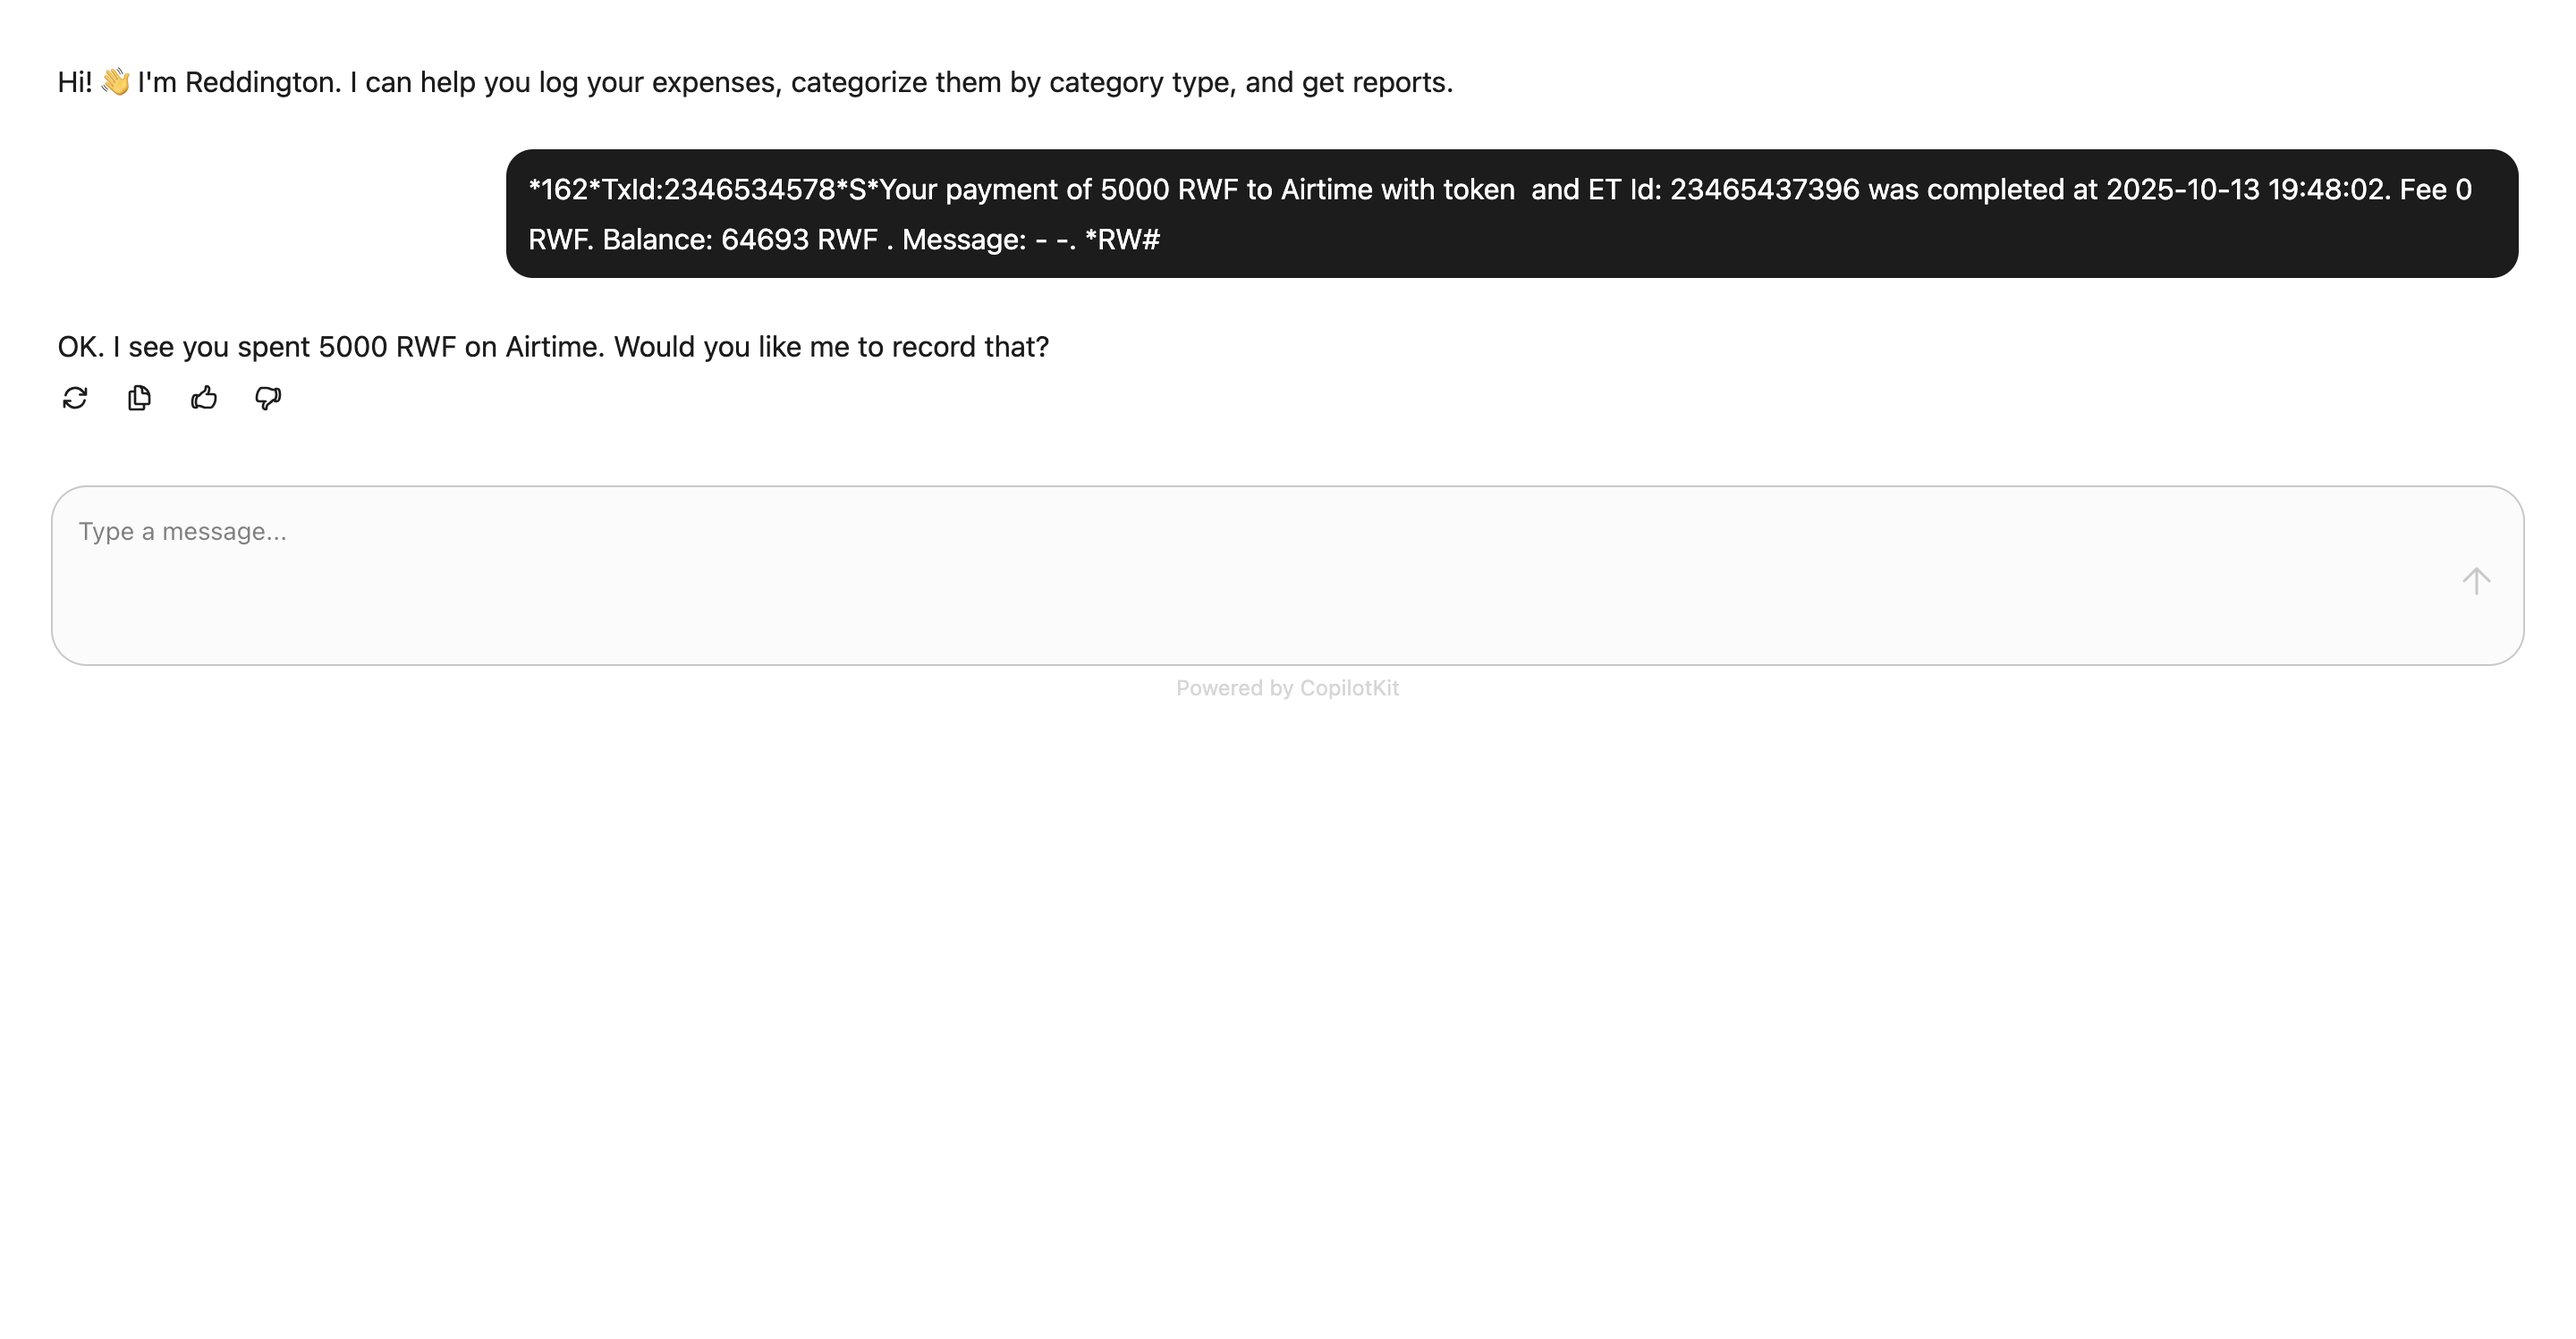
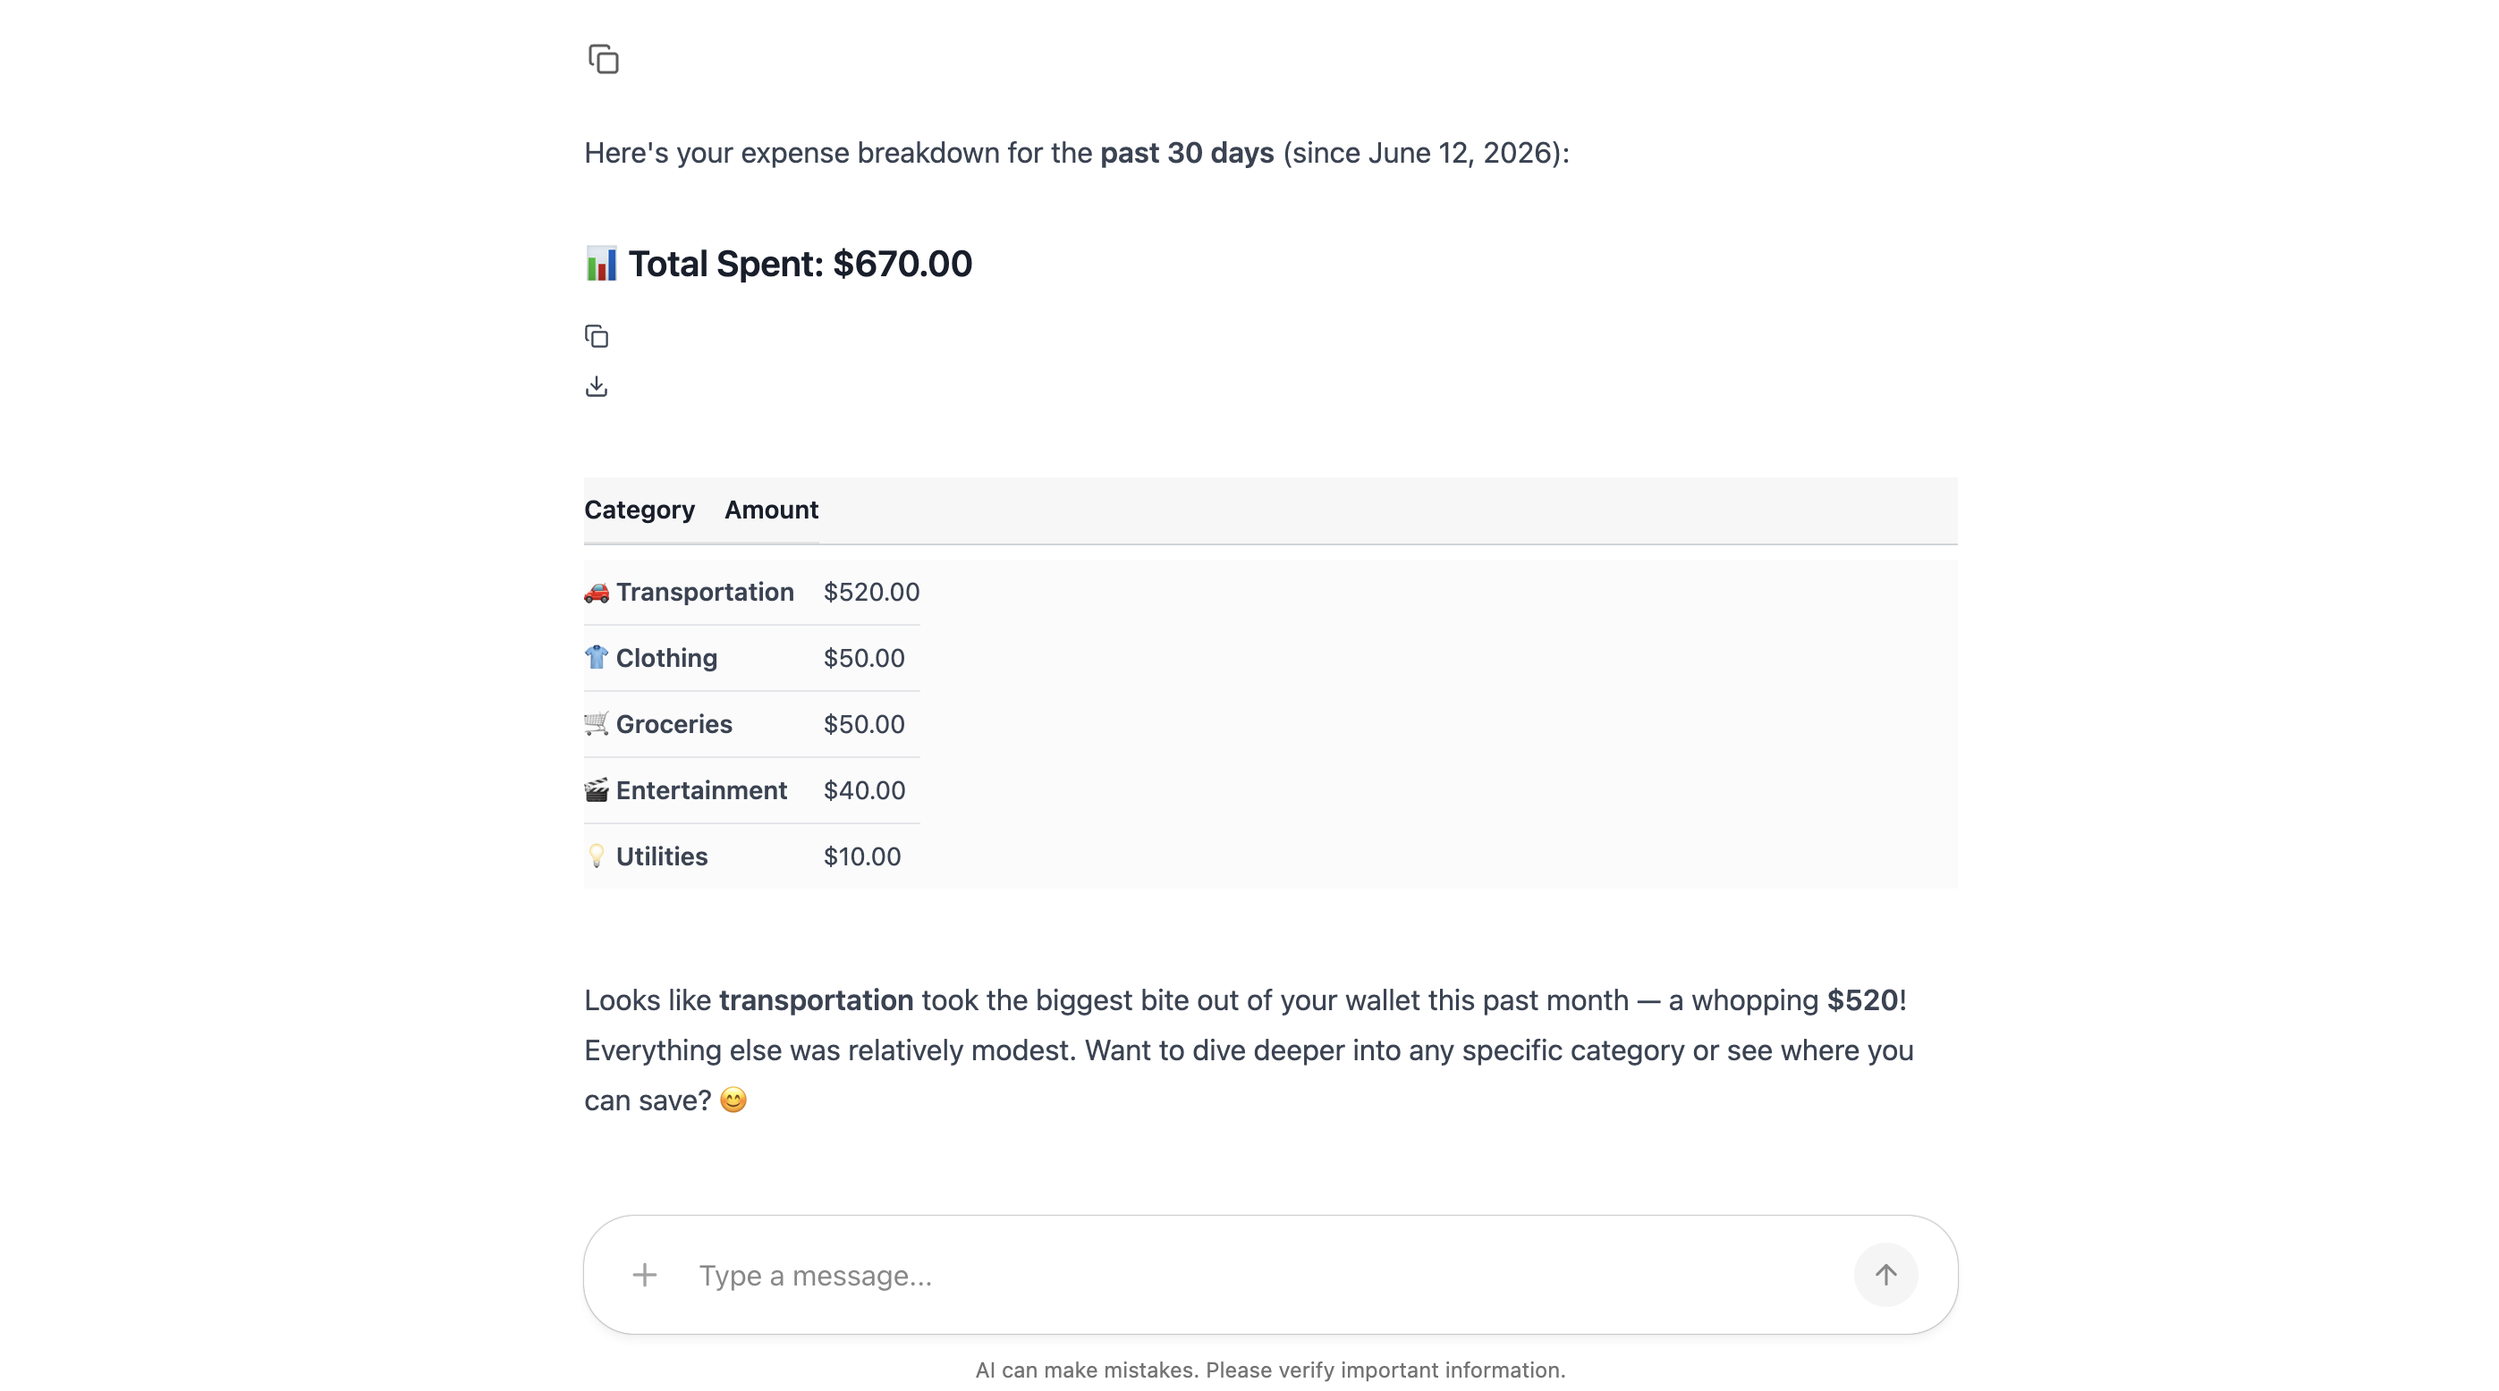
Changed theme and fonts

diff --git a/layouts/index.html b/layouts/index.html
@@ -2,7 +2,7 @@
 <head>
     <link rel="stylesheet" type='text/css' href="https://cdn.jsdelivr.net/gh/devicons/devicon@latest/devicon.min.css" />
 </head>
-<div class="w-full md:w-4/5 lg:w-3/5 mx-auto px-14 py-12">
+<div class="w-full md:w-4/5 lg:w-3/5 mx-auto px-4 md:px-14 py-12">
     <!-- Hero Section -->
     {{ $authorData := index site.Data .Language.Lang "author" }}
     {{ $author := cond (and $authorData $authorData.author) $authorData.author site.Params }}
@@ -11,12 +11,12 @@
     <section class="mb-16">
         <div class="max-w-3xl ml-0 p-4 pb-2 border border-border-primary-light dark:border-border-primary-dark rounded-lg bg-bg-secondary-light dark:bg-bg-secondary-dark shadow-lg relative">
             <div class="text-left">
-                <h1 class="text-4xl font-bold mb-2 text-text-primary-light dark:text-text-primary-dark">{{ .name }}</h1>
-                <p class="text-gray-400 mb-3 flex items-center text-xl">
+                <h1 class="text-2xl font-bold mb-2 text-text-primary-light dark:text-text-primary-dark">{{ .name }}</h1>
+                <p class="text-gray-400 mb-3 flex items-center text-base">
                     <svg xmlns="http://www.w3.org/2000/svg" class="text-gray-400" width="24" height="24" viewBox="-7 -2 24 24"><path fill="currentColor" d="M4 9.9A5.002 5.002 0 0 1 5 0a5 5 0 0 1 1 9.9V19a1 1 0 0 1-2 0V9.9zM5 8a3 3 0 1 0 0-6a3 3 0 0 0 0 6z"/></svg>
                     {{ .location }}
                 </p>
-                <p class="text-xl mb-6 text-text-primary-light dark:text-text-primary-dark">{{ .description | replaceRE "\n\n+" "<br><br>" | safeHTML }}</p>
+                <p class="mb-6 text-text-primary-light dark:text-text-primary-dark">{{ .description | replaceRE "\n\n+" "<br><br>" | safeHTML }}</p>
             </div>
             <!-- Social Icons - Moved to bottom for mobile -->
             <div class="mt-8 md:mt-0 flex flex-wrap justify-center gap-3 md:absolute md:top-4 md:right-4 md:flex-nowrap md:justify-end md:mt-0">
@@ -50,7 +50,7 @@
 
     <!-- tech stack here -->
     <section class="mb-20">
-        <h2 class="text-4xl font-bold mb-2 relative">{{ T "whatIWorkWith" }}</h2>
+        <h2 class="text-xl font-bold mb-2 relative">{{ T "whatIWorkWith" }}</h2>
         <div class="tech-carousel">
             <!-- Row 1 - Forward animation -->
             <div class="carousel-container">
@@ -133,11 +133,11 @@
     {{ with $projects }}
     <section class="mt-12 md:mt-20 mb-12 md:mb-20">
         <div class="flex justify-between items-center mb-6 md:mb-8">
-            <h2 class="text-2xl md:text-4xl font-bold">{{ T "projectsTitle" }}</h2>
+            <h2 class="text-xl md:text-2xl font-bold">{{ T "projectsTitle" }}</h2>
         </div>
         <div class="grid grid-cols-1 gap-6 md:gap-8 max-w-3xl mx-auto">
             {{ range first 2 . }}
-            <div class="project-card relative overflow-hidden rounded-lg bg-[#121212] border border-gray-700 transition-all duration-300 group">
+            <div class="project-card relative overflow-hidden rounded-lg bg-[#0d1117] border border-gray-700 transition-all duration-300 group">
                 <div class="aspect-w-16 aspect-h-9 overflow-hidden relative">
                     <div class="absolute inset-0 bg-gradient-to-br from-blue-500/20 to-purple-500/20 z-10"></div>
                     <img src="{{ .image }}" alt="{{ .title }}" class="w-full h-full object-cover transition-transform duration-500 group-hover:scale-110">
@@ -178,7 +178,7 @@
     {{ with $blogs }}
     <section class="mt-20 mb-20">
         <div class="flex justify-between items-center mb-8">
-            <h2 class="text-4xl font-bold">{{ T "blogsTitle" }}</h2>
+            <h2 class="text-xl font-bold">{{ T "blogsTitle" }}</h2>
         </div>
         <div class="space-y-8 max-w-3xl mx-auto">
             {{ range first 3 . }}

diff --git a/layouts/_default/baseof.html b/layouts/_default/baseof.html
@@ -18,14 +18,14 @@
                 color: #1f2937; 
             }
             html.dark, html.dark body {
-                background-color: #121212; 
-                color: #f3f4f6; 
+                background-color: #0d1117; 
+                color: #e6edf3; 
             }
             .border { 
                 border-color: #d4d4d8; 
             }
             html.dark .border {
-                border-color: #374151; 
+                border-color: #30363d; 
             }
             .carousel-item {
                 display: inline-block;
@@ -65,23 +65,23 @@
                         colors: {
                             text: {
                                 'primary-light': '#111827',
-                                'primary-dark': '#f3f4f6',
+                                'primary-dark': '#e6edf3',
                                 'secondary-light': '#4b5563',
-                                'secondary-dark': '#9ca3af',
+                                'secondary-dark': '#8b949e',
                             },
                             bg: {
                                 'primary-light': '#ffffff',
-                                'primary-dark': '#121212',
+                                'primary-dark': '#0d1117',
                                 'secondary-light': '#f8fafc',
-                                'secondary-dark': '#1f2937',
+                                'secondary-dark': '#161b22',
                                 'tertiary-light': '#f3f4f6',
-                                'tertiary-dark': '#374151',
+                                'tertiary-dark': '#21262d',
                             },
                             border: {
                                 'primary-light': '#e5e7eb',
-                                'primary-dark': '#374151',
+                                'primary-dark': '#30363d',
                                 'secondary-light': '#e5e7eb',
-                                'secondary-dark': '#4b5563',
+                                'secondary-dark': '#21262d',
                             },
                             accent: {
                                 light: '#0284c7',

diff --git a/layouts/partials/header.html b/layouts/partials/header.html
@@ -1,10 +1,16 @@
 {{ $currentPage := . }}
 <head>
     <link rel="stylesheet" type='text/css' href="https://cdn.jsdelivr.net/gh/devicons/devicon@latest/devicon.min.css" />
-    <link href="https://fonts.googleapis.com/css2?family=Space+Grotesk:wght@400;500;600;700&display=swap" rel="stylesheet">
+    <link href="https://fonts.googleapis.com/css2?family=Fraunces:opsz,wght@9..144,400;9..144,500;9..144,600;9..144,700&family=Inter:wght@400;500;600&display=swap" rel="stylesheet">
     <style>
         body {
-            font-family: 'Space Grotesk', sans-serif;
+            font-family: 'Inter', sans-serif;
+            font-size: 15px;
+            line-height: 1.65;
+            letter-spacing: 0.01em;
+        }
+        h1, h2, h3, h4, h5, h6 {
+            font-family: 'Fraunces', serif;
         }
         .language-switcher {
             position: relative;

diff --git a/layouts/_default/terms.html b/layouts/_default/terms.html
@@ -3,7 +3,7 @@
     <h1 class="text-4xl font-bold mb-8">{{ .Title }}</h1>
     <div class="grid grid-cols-1 md:grid-cols-2 lg:grid-cols-3 gap-6">
         {{ range .Data.Terms.ByCount }}
-        <div class="border border-gray-700 rounded-lg p-6 bg-[#1a1a1a]">
+        <div class="border border-gray-700 rounded-lg p-6 bg-[#161b22]">
             <a href="{{ .Page.RelPermalink }}" class="text-xl font-semibold hover:text-gray-300">
                 {{ .Page.Title }}
             </a>

diff --git a/layouts/_default/taxonomy.html b/layouts/_default/taxonomy.html
@@ -3,7 +3,7 @@
     <h1 class="text-4xl font-bold mb-8">{{ .Title }}</h1>
     <div class="space-y-6">
         {{ range .Pages }}
-        <article class="border border-gray-700 rounded-lg p-6 bg-[#1a1a1a]">
+        <article class="border border-gray-700 rounded-lg p-6 bg-[#161b22]">
             <h2 class="text-2xl font-semibold mb-2">
                 <a href="{{ .RelPermalink }}" class="hover:text-gray-300">{{ .Title }}</a>
             </h2>

diff --git a/layouts/blog/single.html b/layouts/blog/single.html
@@ -161,9 +161,9 @@
     }
     
     html.dark .prose pre {
-        background-color: #1f2937; /* bg-secondary-dark */
-        color: #e5e7eb;
-        border-color: #374151; /* border-primary-dark */
+        background-color: #161b22; /* bg-secondary-dark */
+        color: #e6edf3;
+        border-color: #30363d; /* border-primary-dark */
     }
 
     .prose pre code {

diff --git a/layouts/life-stories/single.html b/layouts/life-stories/single.html
@@ -161,9 +161,9 @@
     }
     
     html.dark .prose pre {
-        background-color: #1f2937; /* bg-secondary-dark */
-        color: #e5e7eb;
-        border-color: #374151; /* border-primary-dark */
+        background-color: #161b22; /* bg-secondary-dark */
+        color: #e6edf3;
+        border-color: #30363d; /* border-primary-dark */
     }
 
     .prose pre code {
